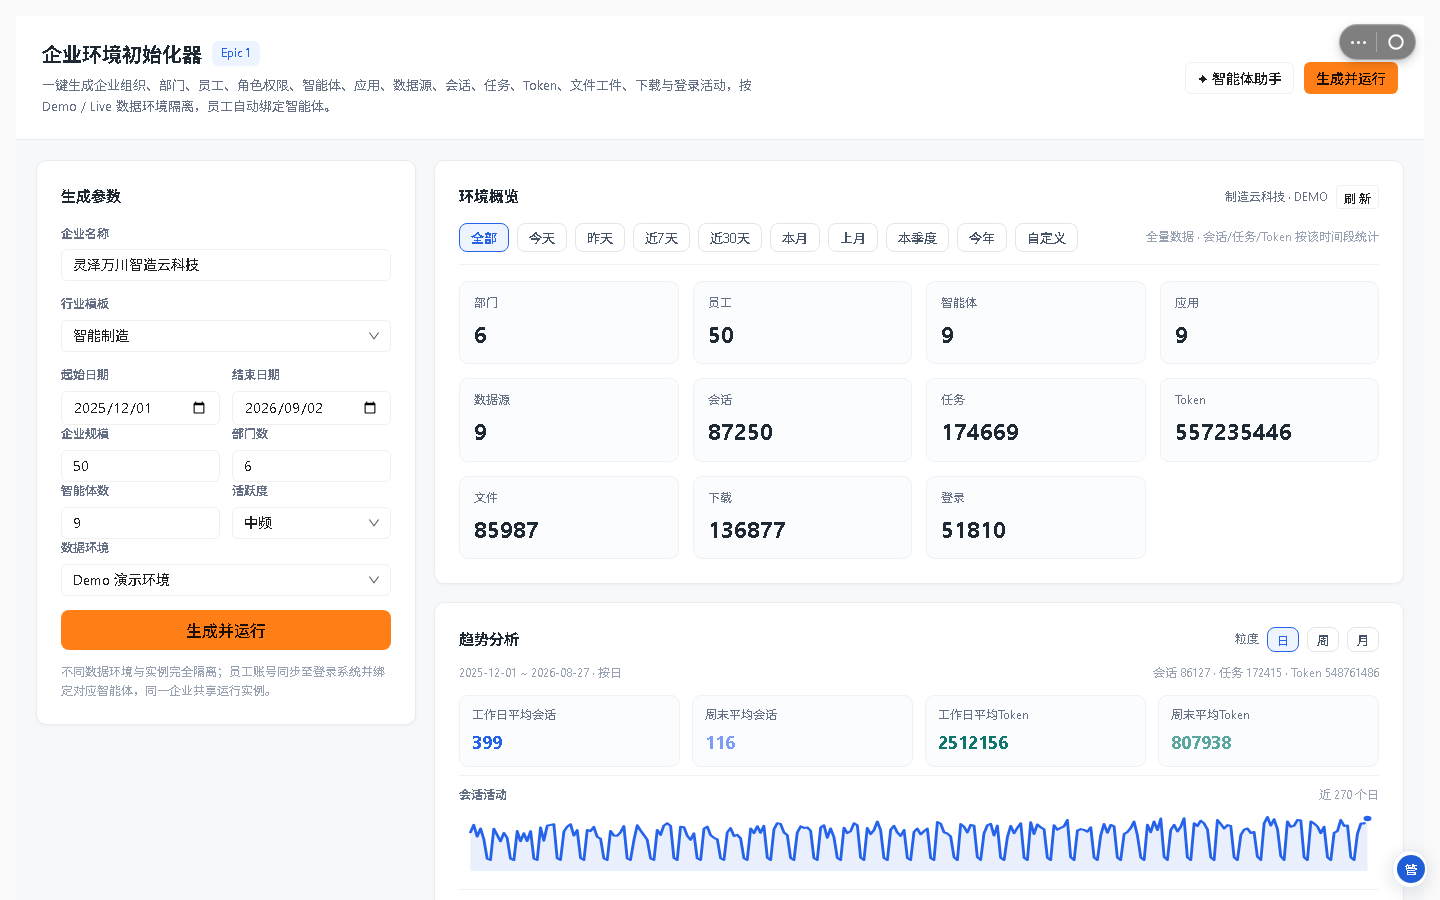
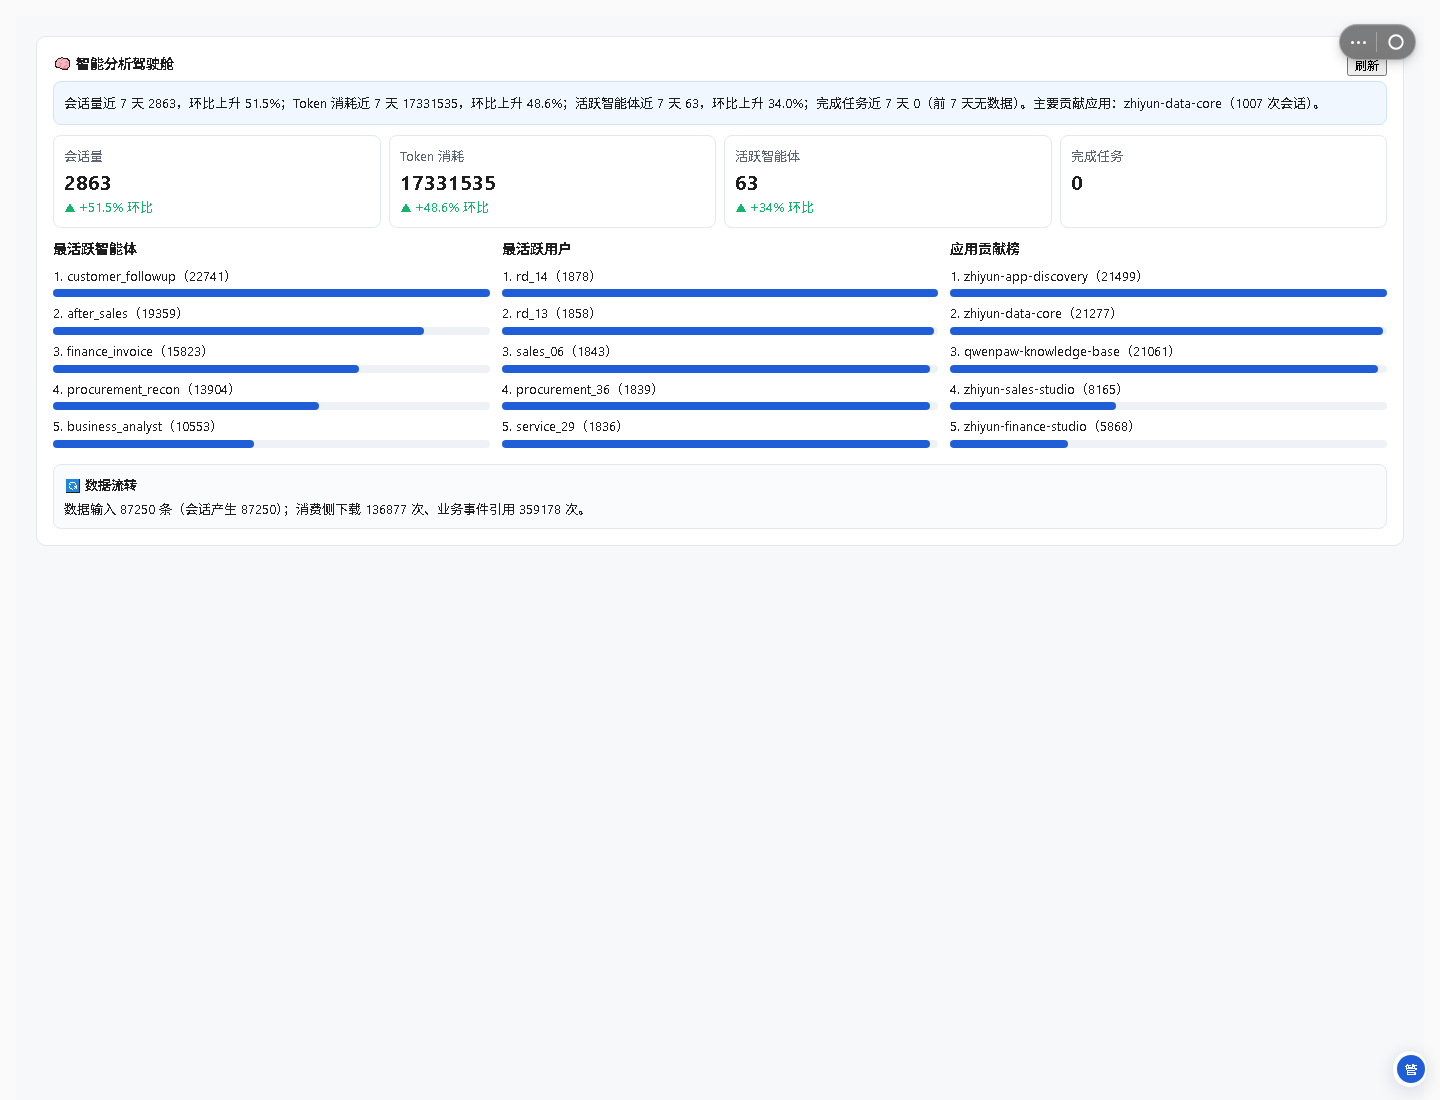
fix(insights): cockpit ships as its own app — renders verified in browser
Root cause of the invisible panel: the console surfaces one route per
plugin reliably; the embedded panel in the seeder page mounted but its
output was discarded, and a second registerRoutes route on the seeder
plugin never surfaced in the menu. The cockpit now ships as a dedicated
mini app (plugins/zhiyun-data-insights: PawApp health route + React
cockpit page calling the seeder analytics API via absolute path —
getApiUrl resolves to the calling plugin's prefix).

Verified live: 19/19 health; browser shows 智能分析驾驶舱 with 环比
cards, TopN boards, anomaly list and 数据流转 (screenshot
docs/qa/screenshots/insights-cockpit.png).

diff --git a/plugins/zhiyun-enterprise-seeder/ui/index.js b/plugins/zhiyun-enterprise-seeder/ui/index.js
@@ -240,203 +240,6 @@ function TrendPanel(props) {
     curve("用户累计", users, "#0f766e")
   );
 }
-function InsightsPanel(props) {
-  var cardStyle = { background: "#fff", border: "1px solid #e3e8ef", borderRadius: 10, padding: 16, marginBottom: 16 };
-  var st = React.useState(null); var data = st[0]; var setData = st[1];
-  var est = React.useState(true); var loading = est[0]; var setLoading = est[1];
-  var errst = React.useState(""); var err = errst[0]; var setErr = errst[1];
-  function load() {
-    setLoading(true);
-    request("/analytics/insights", { headers: { "Authorization": "Bearer " + (window.localStorage.getItem("zhiyun_token") || "") } })
-      .then(function (d) { setData(d); setErr(""); })
-      .catch(function (e) { setErr("加载失败：" + (e && e.message ? e.message : e)); })
-      .finally(function () { setLoading(false); });
-  }
-  React.useEffect(load, []);
-  if (loading) return h("div", { style: cardStyle }, "智能分析加载中…");
-  if (err) return h("div", { style: cardStyle }, h("div", { style: { color: "#b42318" } }, err), h("button", { onClick: load, style: { marginTop: 8 } }, "重试"));
-  if (!data) return null;
-  var bar = function (n, max, color) {
-    return h("div", { style: { background: "#eef2f6", borderRadius: 4, height: 8, width: "100%", marginTop: 4 } },
-      h("div", { style: { width: Math.max(3, Math.round(n / (max || 1) * 100)) + "%", height: "100%", background: color || "#1f5ed6", borderRadius: 4 } }));
-  };
-  var rank = function (list, title) {
-    var max = Math.max.apply(null, list.map(function (x) { return x.sessions; }).concat([1]));
-    return h("div", { style: { flex: "1 1 200px" } }, h("div", { style: { fontWeight: 650, marginBottom: 6 } }, title),
-      list.map(function (x, i) { return h("div", { key: i, style: { fontSize: 12.5, marginBottom: 6 } },
-        h("span", null, (i + 1) + ". " + x.name + "（" + x.sessions + "）"), bar(x.sessions, max)); }));
-  };
-  return h("div", { style: cardStyle },
-    h("div", { style: { fontWeight: 700, fontSize: 14, marginBottom: 6 } }, "🧠 智能分析驾驶舱",
-      h("button", { onClick: load, style: { float: "right", fontSize: 12 } }, "刷新")),
-    h("div", { style: { background: "#f0f7ff", border: "1px solid #cfe3ff", borderRadius: 8, padding: 10, fontSize: 13, lineHeight: 1.7, marginBottom: 10 } }, data.summary),
-    h("div", { style: { display: "flex", gap: 8, flexWrap: "wrap", marginBottom: 10 } },
-      (data.trends || []).map(function (t, i) {
-        var up = t.change_pct == null ? null : t.change_pct >= 0;
-        return h("div", { key: i, style: { flex: "1 1 150px", border: "1px solid #e3e8ef", borderRadius: 8, padding: 10, fontSize: 12.5 } },
-          h("div", { style: { color: "#5b6472" } }, t.metric),
-          h("div", { style: { fontSize: 20, fontWeight: 700 } }, String(t.current)),
-          t.change_pct == null ? null : h("div", { style: { color: up ? "#12b76a" : "#f04438" } }, (up ? "▲ +" : "▼ ") + t.change_pct + "% 环比"));
-      })),
-    h("div", { style: { display: "flex", gap: 12, flexWrap: "wrap", marginBottom: 10 } },
-      rank((data.top_agents || []).slice(0, 5), "最活跃智能体"),
-      rank((data.top_users || []).slice(0, 5), "最活跃用户"),
-      rank((data.top_apps || []).slice(0, 5), "应用贡献榜")),
-    (data.anomalies || []).length ? h("div", { style: { border: "1px solid #fecdca", background: "#fff6f5", borderRadius: 8, padding: 10, fontSize: 12.5 } },
-      h("b", null, "⚠ 异常日（|z|≥2）"),
-      data.anomalies.slice(0, 5).map(function (a, i) { return h("div", { key: i }, a.date + " " + a.kind + "（" + a.sessions + " 次会话, z=" + a.z + "）" + a.context); })) : null,
-    h("div", { style: { border: "1px solid #e3e8ef", borderRadius: 8, padding: 10, fontSize: 12.5, background: "#fafbfc" } },
-      h("b", null, "🔄 数据流转"), h("div", { style: { marginTop: 4 } }, data.data_flow.summary))
-  );
-}
-
-function AgentFactoryPanel(props) {
-  var toast = antd && antd.message ? antd.message : { success: function () {}, error: function () {}, warning: function () {} };
-
-  var catState = React.useState(null);
-  var cat = catState[0]; var setCat = catState[1];
-  var tplState = React.useState({ templates: [], agents: {} });
-  var tpl = tplState[0]; var setTpl = tplState[1];
-  var bindState = React.useState(null);
-  var bindings = bindState[0]; var setBindings = bindState[1];
-  var selState = React.useState("manufacturing");
-  var selValue = selState[0]; var setSelValue = selState[1];
-  var loadState = React.useState(false);
-  var loading = loadState[0]; var setLoading = loadState[1];
-  var rcState = React.useState(false);
-  var reconciling = rcState[0]; var setReconciling = rcState[1];
-  var valState = React.useState(false);
-  var validating = valState[0]; var setValidating = valState[1];
-  var validateState = React.useState(null);
-  var validate = validateState[0]; var setValidate = validateState[1];
-
-  function envQuery() {
-    var q = [];
-    if (props.envId) q.push("env_id=" + encodeURIComponent(props.envId));
-    if (props.mode) q.push("data_mode=" + encodeURIComponent(props.mode));
-    return q.length ? ("?" + q.join("&")) : "";
-  }
-
-  function loadAll() {
-    setLoading(true);
-    var bindUrl = "/zhiyun-enterprise-seeder/agent-factory/bindings" + envQuery();
-    return Promise.all([
-      request("/zhiyun-enterprise-seeder/agent-factory/catalog"),
-      request("/zhiyun-enterprise-seeder/agent-factory/templates"),
-      request(bindUrl)
-    ]).then(function (rs) {
-      setCat(rs[0]);
-      setTpl({ templates: rs[1].templates || [], agents: rs[1].agents || {} });
-      setBindings(rs[2]);
-      var tlist = rs[1].templates || [];
-      if (tlist.length && tlist.indexOf(selValue) === -1) setSelValue(tlist[0]);
-      setLoading(false);
-    }).catch(function (e) { setLoading(false); toast.error(e.message || "加载智能体工厂失败"); });
-  }
-
-  function reconcile() {
-    setReconciling(true);
-    request("/zhiyun-enterprise-seeder/agent-factory/reconcile", {
-      method: "POST",
-      headers: { "Content-Type": "application/json" },
-      body: JSON.stringify({ env_id: props.envId || "", data_mode: props.mode || "" })
-    }).then(function (r) {
-      toast.success("已回填 " + (r.reconciled || 0) + " 个智能体的绑定");
-      if (props.pushAgentMessage) props.pushAgentMessage("assistant", "Agent Factory 已为 " + (r.reconciled || 0) + " 个智能体回填模型/工具/应用权限。", null);
-      return loadAll();
-    }).catch(function (e) { toast.error(e.message || "回填失败"); }).then(function () { setReconciling(false); });
-  }
-
-  function doValidate() {
-    var agent = (tpl.agents[selValue] || [])[0];
-    if (!agent) { toast.warning("暂无模板可校验"); return; }
-    setValidating(true);
-    var payload = {
-      id: agent.agent_id || "business_analyst",
-      name: agent.name || "",
-      position: agent.position || "",
-      department: agent.department || "",
-      category: agent.category || "general",
-      model_id: agent.model_id || "",
-      max_tokens: agent.max_tokens || 8192,
-      execution_freq: agent.execution_freq || 5,
-      work_start: agent.work_start || "09:00",
-      work_end: agent.work_end || "18:00",
-      auto_tasks: agent.auto_tasks || 0,
-      manual_tasks: agent.manual_tasks || 0,
-      success_rate: agent.success_rate || 0.9,
-      avg_response_ms: agent.avg_response_ms || 1800,
-      kb_scope: agent.kb_scope || "enterprise",
-      data_scope: agent.data_scope || "enterprise",
-      skills: (agent.skills || []).map(function (s) { return [s.name, s.code]; }),
-      tools: (agent.tools || []).map(function (t) { return t.tool_id || t; })
-    };
-    request("/zhiyun-enterprise-seeder/agent-factory/validate", {
-      method: "POST",
-      headers: { "Content-Type": "application/json" },
-      body: JSON.stringify(payload)
-    }).then(function (r) {
-      setValidate(r);
-      if (props.pushAgentMessage) props.pushAgentMessage("assistant", r.ok ? ("「" + ((r.config && r.config.name) || "智能体") + "」配置校验通过，模型/技能/工具/应用权限齐备。") : ("校验发现 " + (r.errors || []).length + " 个问题：\n" + (r.errors || []).map(function (e) { return "- " + e.message; }).join("\n")), null);
-      toast.success(r.ok ? "配置校验通过" : ("配置校验有 " + (r.errors || []).length + " 个问题"));
-      setValidating(false);
-    }).catch(function (e) { toast.error(e.message || "校验失败"); setValidating(false); });
-  }
-
-  React.useEffect(function () { loadAll(); }, []);
-
-  var agentList = (tpl.agents && tpl.agents[selValue]) || [];
-  var cols = [
-    { title: "智能体", dataIndex: "name", key: "name", width: 150, render: function (v, r) { return h("div", null, h("div", { style: { fontWeight: 650, color: "#1f2933" } }, v), h("div", { style: { fontSize: 11, color: "#98a2b3" } }, r.agent_id || "")); } },
-    { title: "岗位", dataIndex: "position", key: "position", width: 90 },
-    { title: "部门", dataIndex: "department", key: "department", width: 80 },
-    { title: "模型", dataIndex: "model", key: "model", width: 120, render: function (v, r) { return (r.model && r.model.name) || v || ""; } },
-    { title: "技能", dataIndex: "skills", key: "skills", render: function (v) { return h("div", { style: { display: "flex", flexWrap: "wrap", gap: 4 } }, (v || []).map(function (s) { return h("span", { key: s.skill_id, style: { background: "#eef4ff", color: "#2563eb", borderRadius: 6, padding: "1px 6px", fontSize: 11 } }, s.name); })); } },
-    { title: "工具", dataIndex: "tools", key: "tools", render: function (v) { return h("div", { style: { display: "flex", flexWrap: "wrap", gap: 4 } }, (v || []).map(function (t) { return h("span", { key: t.tool_id, style: { background: "#fff7ed", color: "#c2410c", borderRadius: 6, padding: "1px 6px", fontSize: 11 } }, t.name); })); } },
-    { title: "应用权限", dataIndex: "apps", key: "apps", render: function (v) { return h("div", { style: { display: "flex", flexWrap: "wrap", gap: 4 } }, (v || []).map(function (a) { return h("span", { key: a, style: { background: "#f0fdf4", color: "#15803d", borderRadius: 6, padding: "1px 6px", fontSize: 11 } }, a); })); } },
-    { title: "成功率", dataIndex: "success_rate", key: "success_rate", width: 76, render: function (v) { return Math.round((v || 0) * 100) + "%"; } },
-    { title: "响应", dataIndex: "avg_response_ms", key: "avg_response_ms", width: 74, render: function (v) { return (v || 0) + "ms"; } }
-  ];
-
-  var bindModels = (bindings && bindings.models) || [];
-  var bindTools = (bindings && bindings.agent_tools) || [];
-  var bindApps = (bindings && bindings.agent_app_access) || [];
-
-  return h(antd.Card, { style: { borderRadius: 10, border: "1px solid #e8ecf1", boxShadow: "0 1px 3px rgba(16,24,40,0.04)", marginTop: 18 } },
-    h("div", { style: { display: "flex", alignItems: "center", justifyContent: "space-between", flexWrap: "wrap", gap: 8 } },
-      h("div", { style: { display: "flex", alignItems: "center", gap: 10 } },
-        h("span", { style: { fontSize: 15, fontWeight: 700, color: "#1f2933" } }, "智能体工厂"),
-        h("span", { style: { background: "#eef4ff", color: "#2563eb", borderRadius: 6, padding: "3px 9px", fontSize: 12, fontWeight: 600 } }, "Epic 2")
-      ),
-      h("div", { style: { display: "flex", flexWrap: "wrap", gap: 8 } },
-        h(antd.Button, { size: "small", loading: loading, onClick: loadAll }, "加载编目"),
-        h(antd.Button, { size: "small", loading: reconciling, onClick: reconcile }, "回填绑定"),
-        h(antd.Button, { size: "small", type: "primary", loading: validating, onClick: doValidate }, "校验配置")
-      )
-    ),
-    h("div", { style: { display: "flex", flexWrap: "wrap", gap: 8, marginTop: 14 } },
-      (tpl.templates || []).map(function (t) {
-        var active = t === selValue;
-        return h("button", { key: t, onClick: function () { setSelValue(t); }, style: { border: "1px solid " + (active ? "#2563eb" : "#e2e6ec"), background: active ? "#eef4ff" : "#fff", color: active ? "#2563eb" : "#475467", borderRadius: 8, padding: "4px 11px", fontSize: 12.5, fontWeight: active ? 650 : 500, cursor: "pointer" } }, templateLabel(t));
-      })
-    ),
-    loading ? h("div", { style: { marginTop: 16 } }, h(antd.Skeleton, { active: true, title: false, paragraph: { rows: 4 } })) : null,
-    (!loading && agentList.length) ? h(antd.Table, { rowKey: "agent_id", columns: cols, dataSource: agentList, size: "small", pagination: false, scroll: { x: "max-content" }, style: { marginTop: 16 } }) : null,
-    h("div", { style: { display: "grid", gridTemplateColumns: "repeat(3,1fr)", gap: 10, marginTop: 16 } },
-      [["模型", bindModels.length], ["工具绑定", bindTools.length], ["应用权限", bindApps.length]].map(function (it) {
-        return h("div", { key: it[0], style: { background: "#fbfcfe", border: "1px solid #eef1f6", borderRadius: 9, padding: "10px 12px" } },
-          h("div", { style: { fontSize: 12, color: "#667085" } }, it[0]),
-          h("div", { style: { fontSize: 20, fontWeight: 750, color: "#1f2933", marginTop: 2 } }, it[1])
-        );
-      })
-    ),
-    validate ? h("div", { style: { marginTop: 14, padding: "10px 12px", borderRadius: 8, background: validate.ok ? "#f6fef9" : "#fff5f5", border: "1px solid " + (validate.ok ? "#bbf7d0" : "#fecaca"), fontSize: 12.5, color: "#1f2933", lineHeight: 1.6 } },
-      h("span", { style: { fontWeight: 650 } }, validate.ok ? "✓ 配置校验通过" : "✕ 配置校验不通过"),
-      (validate.errors || []).length ? h("div", { style: { marginTop: 6 } }, validate.errors.map(function (e) { return h("div", { key: e.field + e.message }, "· " + e.message); })) : null
-    ) : null
-  );
-}
-
 function SimulationRuntimePanel(props) {
   var toast = antd && antd.message ? antd.message : { success: function () {}, error: function () {}, warning: function () {} };
   var statusState = React.useState(null);
@@ -1067,7 +870,6 @@ h("div", { style: sub }, "一键生成企业组织、部门、员工、角色权
         )
       )
     ),
-    h(InsightsPanel, { key: "insights" }),
     h(SimulationRuntimePanel, { key: "sim-" + ((stats && stats.env_id) || "x"), pushAgentMessage: pushAgentMessage }),
     h(AgentFactoryPanel, { key: (stats && stats.env_id) || "af", envId: (stats && stats.env_id) || "", mode: (stats && stats.data_mode) || "", pushAgentMessage: pushAgentMessage }),
     h(AgentDock, { open: agentOpen, onClose: function () { setAgentOpen(false); }, moduleLabel: "企业环境初始化器", chips: [{ key: "init", label: "初始化企业" }, { key: "status", label: "查询状态" }], messages: agentMessages, draft: agentDraft, setDraft: setAgentDraft, busy: generating || rowsLoading, onSend: agentSend, onCommand: agentCommand })

diff --git a/plugins/zhiyun-data-insights/ui/index.js b/plugins/zhiyun-data-insights/ui/index.js
@@ -1,0 +1,80 @@
+// -*- coding: utf-8 -*-
+// 智能分析驾驶舱 — 独立应用页（数据来自 /api/zhiyun-enterprise-seeder/analytics/insights）
+(function () {
+  var Q = window.QwenPaw;
+  if (!Q || !Q.slot || !Q.host || !Q.host.React) return;
+  var React = Q.host.React;
+  var h = React.createElement;
+  var API = "/api/zhiyun-enterprise-seeder";  // 跨插件调用用绝对路径（getApiUrl 会解析到当前插件前缀）
+  function authHeaders() {
+    var headers = {};
+    try {
+      var t = window.localStorage.getItem("zhiyun_token");
+      if (t) headers["Authorization"] = "Bearer " + t;
+    } catch (e) { /* 忽略 */ }
+    return headers;
+  }
+  function api(path) {
+    return fetch(API + path, { headers: authHeaders() })
+      .then(function (r) { if (!r.ok) throw new Error("HTTP " + r.status); return r.json(); });
+  }
+  var cardStyle = { background: "#fff", border: "1px solid #e3e8ef", borderRadius: 10, padding: 16, marginBottom: 16 };
+
+  function InsightsPanel(props) {
+    var st = React.useState(null); var data = st[0]; var setData = st[1];
+    var est = React.useState(true); var loading = est[0]; var setLoading = est[1];
+    var errst = React.useState(""); var err = errst[0]; var setErr = errst[1];
+    function load() {
+      setLoading(true);
+      api("/analytics/insights")
+        .then(function (d) { setData(d); setErr(""); })
+        .catch(function (e) { setErr("加载失败：" + (e && e.message ? e.message : e)); })
+        .finally(function () { setLoading(false); });
+    }
+    React.useEffect(load, []);
+    if (loading) return h("div", { style: cardStyle }, "智能分析加载中…");
+    if (err) return h("div", { style: cardStyle }, h("div", { style: { color: "#b42318" } }, err), h("button", { onClick: load, style: { marginTop: 8 } }, "重试"));
+    if (!data) return null;
+    function bar(n, max, color) {
+      return h("div", { style: { background: "#eef2f6", borderRadius: 4, height: 8, width: "100%", marginTop: 4 } },
+        h("div", { style: { width: Math.max(3, Math.round(n / (max || 1) * 100)) + "%", height: "100%", background: color || "#1f5ed6", borderRadius: 4 } }));
+    }
+    function rank(list, title) {
+      var max = Math.max.apply(null, list.map(function (x) { return x.sessions; }).concat([1]));
+      return h("div", { style: { flex: "1 1 200px" } }, h("div", { style: { fontWeight: 650, marginBottom: 6 } }, title),
+        list.map(function (x, i) { return h("div", { key: i, style: { fontSize: 12.5, marginBottom: 6 } },
+          h("span", null, (i + 1) + ". " + x.name + "（" + x.sessions + "）"), bar(x.sessions, max)); }));
+    }
+    return h("div", { style: cardStyle },
+      h("div", { style: { fontWeight: 700, fontSize: 14, marginBottom: 6 } }, "🧠 智能分析驾驶舱",
+        h("button", { onClick: load, style: { float: "right", fontSize: 12 } }, "刷新")),
+      h("div", { style: { background: "#f0f7ff", border: "1px solid #cfe3ff", borderRadius: 8, padding: 10, fontSize: 13, lineHeight: 1.7, marginBottom: 10 } }, data.summary),
+      h("div", { style: { display: "flex", gap: 8, flexWrap: "wrap", marginBottom: 10 } },
+        (data.trends || []).map(function (t, i) {
+          var up = t.change_pct == null ? null : t.change_pct >= 0;
+          return h("div", { key: i, style: { flex: "1 1 150px", border: "1px solid #e3e8ef", borderRadius: 8, padding: 10, fontSize: 12.5 } },
+            h("div", { style: { color: "#5b6472" } }, t.metric),
+            h("div", { style: { fontSize: 20, fontWeight: 700 } }, String(t.current)),
+            t.change_pct == null ? null : h("div", { style: { color: up ? "#12b76a" : "#f04438" } }, (up ? "▲ +" : "▼ ") + t.change_pct + "% 环比"));
+        })),
+      h("div", { style: { display: "flex", gap: 12, flexWrap: "wrap", marginBottom: 10 } },
+        rank((data.top_agents || []).slice(0, 5), "最活跃智能体"),
+        rank((data.top_users || []).slice(0, 5), "最活跃用户"),
+        rank((data.top_apps || []).slice(0, 5), "应用贡献榜")),
+      (data.anomalies || []).length ? h("div", { style: { border: "1px solid #fecdca", background: "#fff6f5", borderRadius: 8, padding: 10, fontSize: 12.5 } },
+        h("b", null, "⚠ 异常日（|z|≥2）"),
+        data.anomalies.slice(0, 5).map(function (a, i) { return h("div", { key: i }, a.date + " " + a.kind + "（" + a.sessions + " 次会话, z=" + a.z + "）" + a.context); })) : null,
+      h("div", { style: { border: "1px solid #e3e8ef", borderRadius: 8, padding: 10, fontSize: 12.5, background: "#fafbfc" } },
+        h("b", null, "🔄 数据流转"), h("div", { style: { marginTop: 4 } }, data.data_flow.summary))
+    );
+  }
+
+  function InsightsPage() {
+    return h("div", { style: { padding: 20, minHeight: "100vh", background: "#f7f8fa" } },
+      h(InsightsPanel, null));
+  }
+
+  if (Q.registerRoutes) {
+    Q.registerRoutes("zhiyun-data-insights", [{ path: "/apps/zhiyun-data-insights", component: InsightsPage, label: "智能分析驾驶舱", icon: "🧠", priority: 84 }]);
+  }
+})();

diff --git a/plugins/zhiyun-data-insights/backend/main.py b/plugins/zhiyun-data-insights/backend/main.py
@@ -1,0 +1,24 @@
+# -*- coding: utf-8 -*-
+"""智能分析驾驶舱 — 前端壳插件。
+
+分析计算与数据由 zhiyun-enterprise-seeder 的 /analytics/insights 提供；
+本插件只负责以独立应用形态挂载驾驶舱页面（单插件单路由，规避
+console 多路由注册不生效的问题）。
+"""
+from __future__ import annotations
+
+from fastapi import APIRouter
+from qwenpaw.pawapp import PawApp
+
+router = APIRouter()
+
+
+@router.get("/health")
+async def health() -> dict[str, str]:
+    return {"status": "available", "app": "zhiyun-data-insights"}
+
+
+app = PawApp(name="智能分析驾驶舱", app_id="zhiyun-data-insights")
+app.include_router(router)
+
+plugin = app
